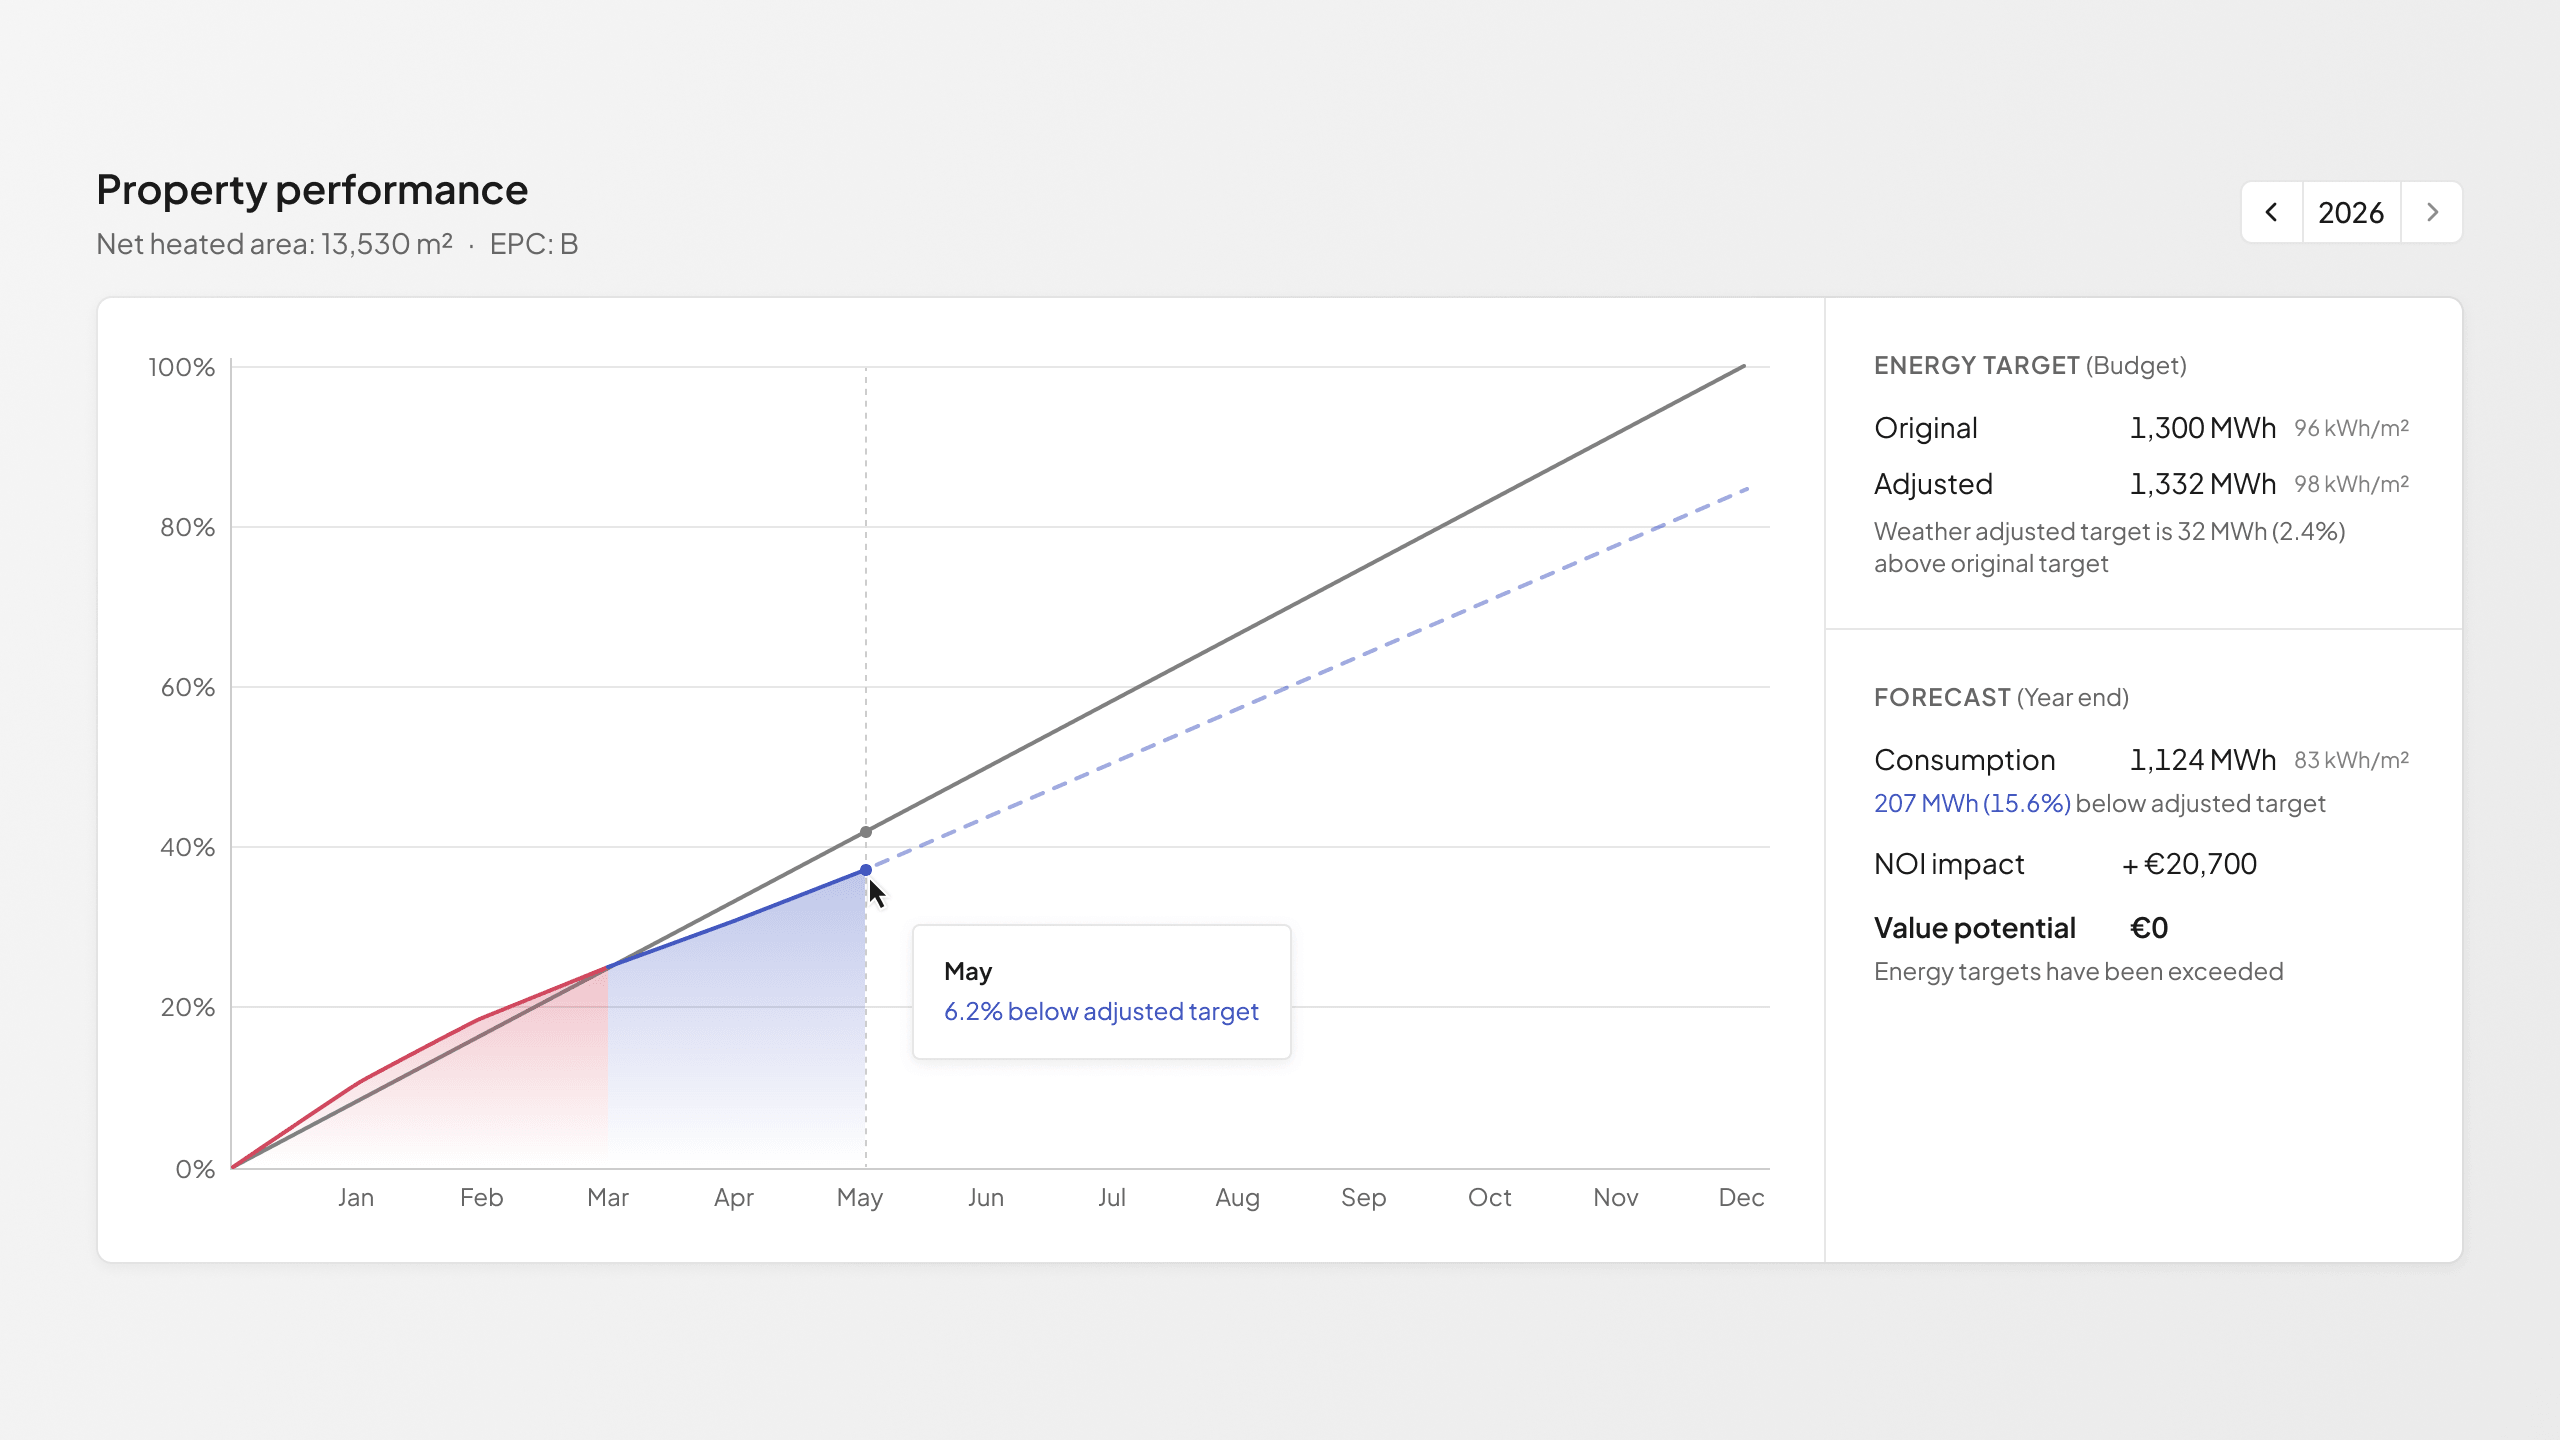
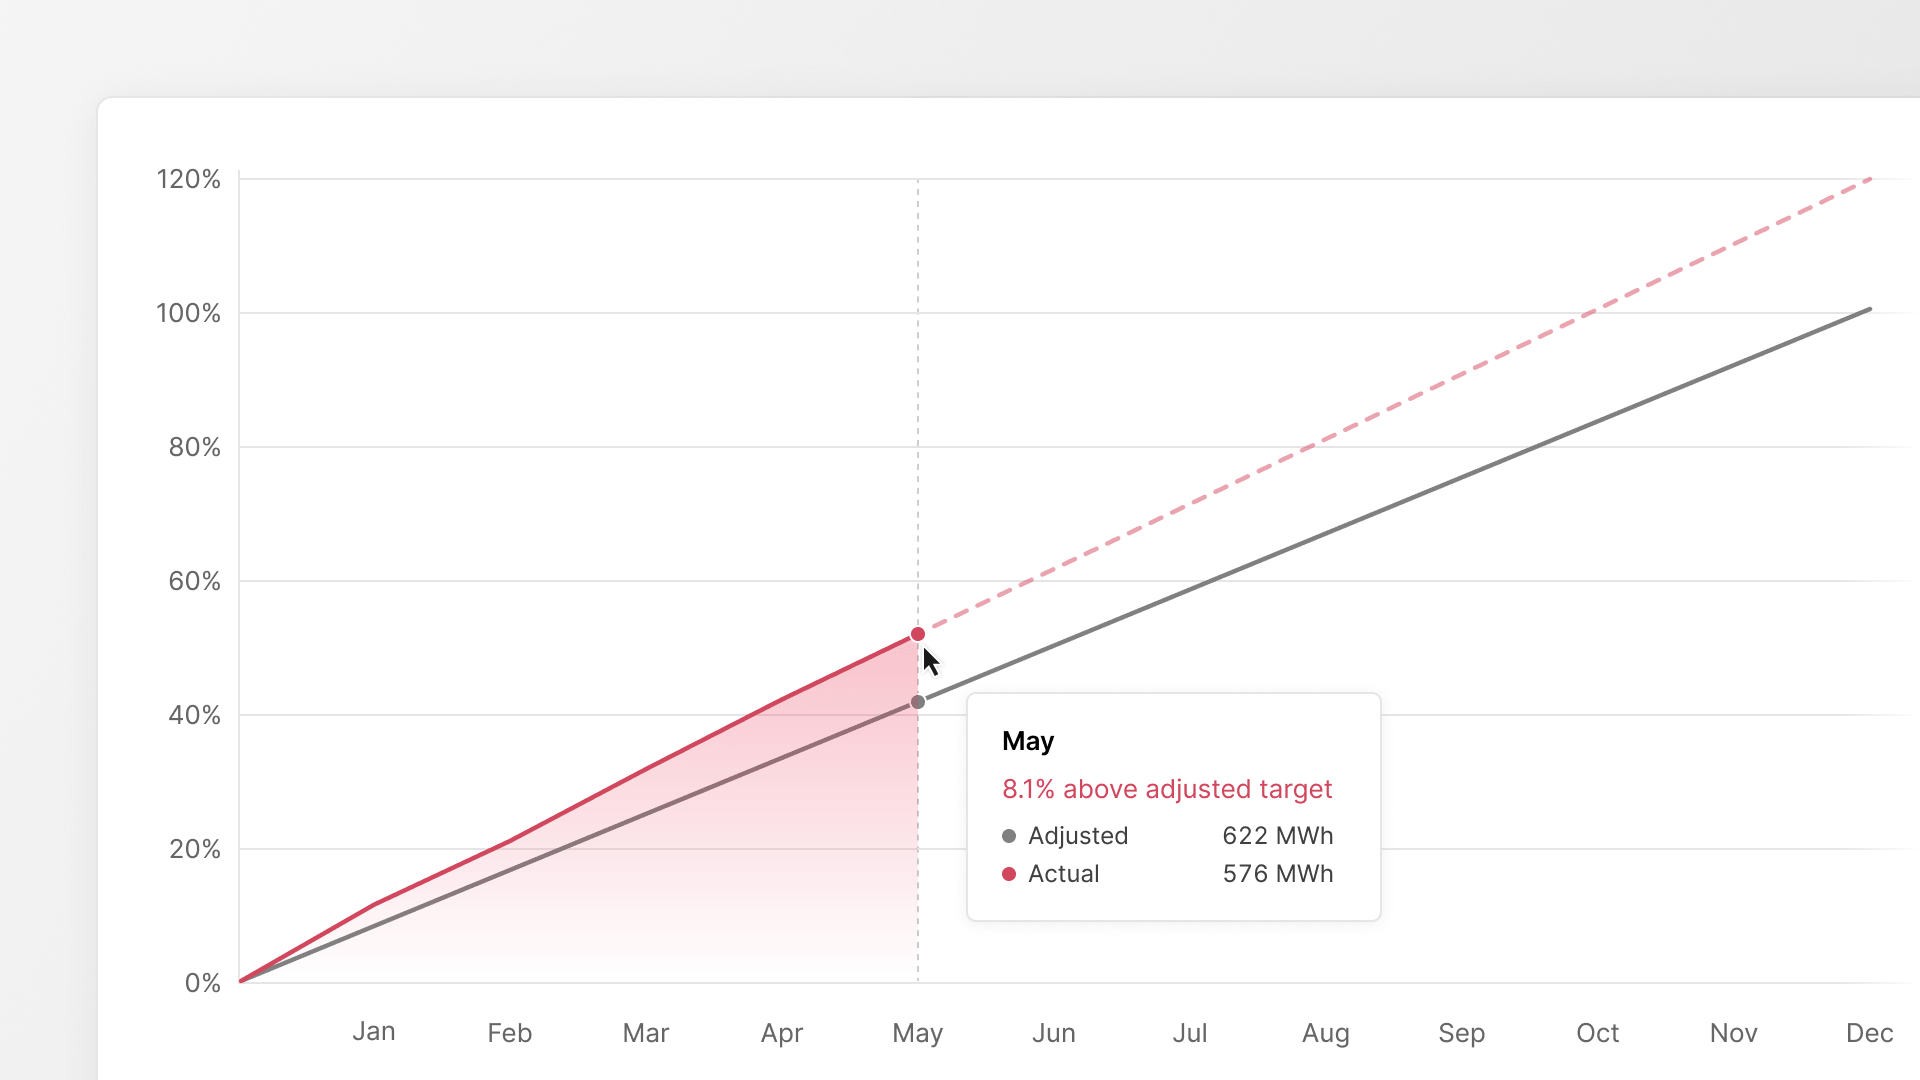
Update article

diff --git a/src/content/news/the-value-the-market-cant-touch.md b/src/content/news/the-value-the-market-cant-touch.md
@@ -9,13 +9,13 @@ about:
   bio: Tomi has led over €5 billion in international real estate transactions and development projects, including one of the highest-scoring LEED Platinum buildings in the world. He was Head of Transactions at Aberdeen Standard Investments, which managed a real estate investment platform of over €40 billion. He founded Clouder to turn the operational value he spent fifteen years watching go unmeasured into something owners can finally see and capture.
   image: src/assets/tomi.jpg
 cover: images/perf-chart.png
-coverAlt: Performance chart UI
-draft: true
+coverAlt: Chart showing the Performance Curve
+draft: false
 ---
 
-Fifteen years as an investor taught me that the only value not tied to market movements is the value released from inside the asset itself. 
+Fifteen years as a real estate investor taught me that the only value not tied to market movements is the value released from inside the asset itself. 
 
-Every quarter, capital allocation in commercial real estate is dominated by one question: where is the market going? We model cap rate movements, debate interest rate paths, and reposition portfolios around forecasts we can't control. This is necessary work. AI is about to make us far better at it: sharper signals, faster reads, better-timed moves. 
+Every quarter, capital allocation in commercial real estate is dominated by one question: where is the market going? We model cap rate movements, debate interest rate paths, and reposition portfolios around forecasts. This is necessary work. AI is about to make us far better at it: sharper signals, faster reads, better-timed moves. 
 
 But it has trained us to look in the wrong direction for our largest source of untapped value.
 
@@ -27,24 +27,22 @@ Market-driven value has two properties that should make any allocator uneasy. It
 
 Operational value behaves the opposite way. It is **yours**, as it comes from how your specific assets actually run, which no competitor can see or replicate. And it is **durable**. Once you eliminate waste from a building, that NOI doesn't reverse when sentiment turns.
 
-The reason this value stays hidden is simple: it has never been made visible. A building's true performance lives in its systems as raw consumption, but a consumption number alone isn't an insight. What's a lot? What's a little? Siloed, fragmented, or simply unframed, the data sits as "data debt" on the balance sheet while attention flows to the market because the market is the only thing we've been able to read clearly.
+The reason this value stays hidden is simple: it has never been made visible. A building's true performance lives in its systems as raw consumption, but a consumption number alone isn't an insight. What's a lot? What's a little? So the data just sits there, siloed and fragmented. Attention flows to the market instead, because the market is the only thing we've been able to read clearly.
 
-AI changes both sides of this equation, but not equally. Yes, AI will help you read the market more effectively. But that capability is available to everyone, so the advantage erodes toward zero. The asymmetric opportunity is the other one: using AI to make the inside of your portfolio visible and act on it in real time. That value is market-independent. It is there whether rates rise or fall. And almost no one is capturing it yet.
+AI changes both sides of this equation, but not equally. Yes, AI will help you read the market more effectively. But that capability is available to everyone, so the advantage erodes. **The asymmetric opportunity is using AI to make the inside of your portfolio visible** and act on it in real time. That value is market-independent. It is there whether rates rise or fall. And almost no one is capturing it yet.
 
 ## Introducing the Performance Curve
 
 Finding the hidden value is the hard part. It takes deep technical knowledge of how buildings actually run, and AI capable of turning raw signals into something you can act on. That is the work Clouder does. 
 
-Seeing that value, judging how far an asset is from where it should be, and watching the gap close, should be effortless. That's why we built the Performance Curve: a model that answers what good actually looks like for each asset, and what it's costing you not to get there.
+![Chart showing the Performance Curve](images/perf-chart.png)
 
-![Illustration](images/perf-chart.png)
-
-Three things it gives an owner:
+Seeing that value, judging how far an asset is from where it should be, and watching the gap close, should be effortless. That's why we built the Performance Curve: a model that answers what good actually looks like for each asset, and what it's costing you not to get there. Three things it gives an owner:
 
 1. **Where you'll land.** Keep running the building the way you run it now, and the model projects where you end up at year-end, so the consequence of today's operating pattern is visible before the year is gone, not after.
 2. **What inaction is costing you.** Not just the NOI gained by closing the gap, but the money leaking out every moment you don't. Framing the opportunity as an active, ongoing loss (and not a prize waiting to be claimed) is what makes the cost of inaction real. Every €1 of NOI recovered adds 20x asset value at a 5% cap rate. 
 3. **Performance that holds**. This is the end of project-after-project. Every action shows up against the baseline in real time, and the curve is kept where it should be. Performance is not a one-off optimization that decays, but a level held permanently.
 
-The curve runs against a verified baseline, so every gain is measured rather than estimated. And a pilot building is typically live and showing its own curve within two weeks.
+The curve runs against a verified baseline, so every gain is measured rather than estimated. And a pilot building is typically live and showing its own curve within two weeks. Take a 20,100 m² commercial building where overconsumption was costing €189K in NOI annually. At a 5% cap rate, that's a €3.8M gap in asset value. The corrections become visible as the gap starts to close after the first half of the year. €3.8M created without buying a single new property.
 
 Reading the market better with AI is table stakes now; everyone will have that. The durable edge belongs to allocators who also turn inward and treat operational performance as a measurable, capturable asset rather than an untracked cost. The value is already inside your portfolio. The Performance Curve is how you see it.